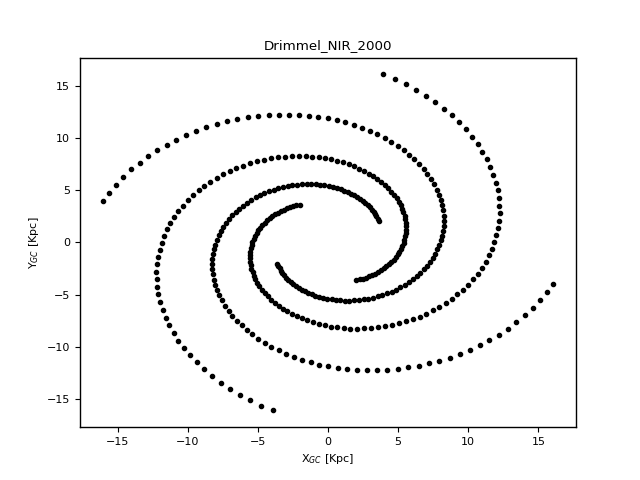
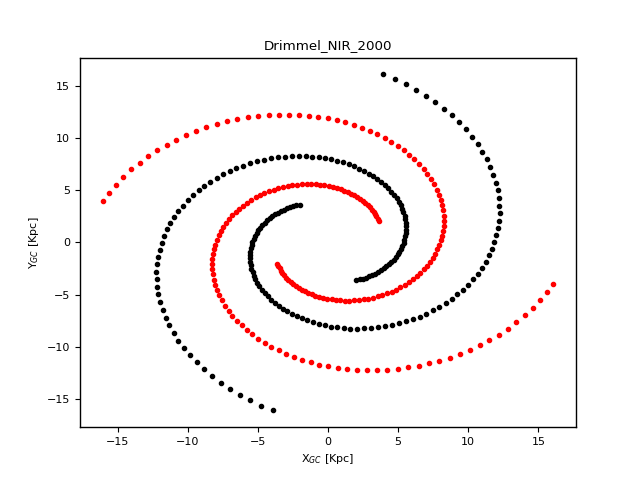
cleanup

diff --git a/SpiralMap.py b/SpiralMap.py
@@ -1250,57 +1250,62 @@ class main_(object):
 		spimod.xsun = self.xsun
 		spimod.getarmlist()		
 		self.armlist = spimod.arms	
+				
+		# in case plot attributes are not provided, or incomplete
+		for ky in self.plotattrs_default.keys():			
+			if ky not in list(plotattrs.keys()):				
+				plotattrs[ky] = self.plotattrs_default[ky]
+		plotattrs1 = plotattrs.copy()
+		
 		if 'poggio' in model.lower():		
-			spimod.output_(coordsys=plotattrs['coordsys'])		
-		else:	
-			# in case plot attributes are not provided, or incomplete
-			for ky in self.plotattrs_default.keys():			
-				if ky not in list(plotattrs.keys()):				
-					plotattrs[ky] = self.plotattrs_default[ky]
+			return spimod.output_(coordsys=plotattrs1['coordsys'])		
+		if (('poggio' not in model.lower())&('all' not in arm))  :	
+			
+
+			plotattrs1 = plotattrs.copy()				
+									
+			spimod.output_(arm)												
+			spimod.dout['rgc'] = sqrtsum(ds=[spimod.dout['xgc'],spimod.dout['ygc']])						
+			spimod.dout['phi1'] = np.arctan2(spimod.dout['yhc'],-spimod.dout['xgc'])
+			spimod.dout['phi4'] = np.degrees(np.arctan2(spimod.dout['yhc'],spimod.dout['xgc']))%360.	
+			
+			
+			self.dout = spimod.dout.copy() 													
+			if plotattrs1['armcolour'] == '':
+				plotattrs1['armcolour'] = spimod.armcolour[arm]		
+
 	
-			if 'all' not in arm:							
-				spimod.output_(arm)												
+			if plotattrs1['plot'] and plotattrs1['polarproj']==False:				
+				self.xyplot(spimod,plotattrs1)
+			if plotattrs1['plot'] and plotattrs1['polarproj']:			
+				plt.plot(np.radians(spimod.dout['phi4']),spimod.dout['rgc'],'.',color=plotattrs1['armcolour'])		
+						
+			return 
+						
+		if (('poggio' not in model.lower())&(arm=='all'))  :	
+			
+										
+			for arm_temp in spimod.arms:
+				
+				plotattrs1 = plotattrs.copy()
+
+				spimod.output_(arm_temp)
 				spimod.dout['rgc'] = sqrtsum(ds=[spimod.dout['xgc'],spimod.dout['ygc']])						
 				spimod.dout['phi1'] = np.arctan2(spimod.dout['yhc'],-spimod.dout['xgc'])
-				spimod.dout['phi4'] = np.degrees(np.arctan2(spimod.dout['yhc'],spimod.dout['xgc']))%360.	
+				spimod.dout['phi4'] = np.degrees(np.arctan2(spimod.dout['yhc'],spimod.dout['xgc']))%360.						
 				
-				
-				self.dout = spimod.dout.copy() 													
-				if plotattrs['armcolour'] == '':
-					plotattrs['armcolour'] = spimod.armcolour[arm]		
-
-		
-				if plotattrs['plot'] and plotattrs['polarproj']==False:				
-					self.xyplot(spimod,plotattrs)
-				if plotattrs['plot'] and plotattrs['polarproj']:			
-					plt.plot(np.radians(spimod.dout['phi4']),spimod.dout['rgc'],'.',color=spimod.armcolour[arm])		
-						
-						
-								
-			elif arm =='all':
-	
-				for arm_temp in spimod.arms:
-					spimod.output_(arm_temp)
-					spimod.dout['rgc'] = sqrtsum(ds=[spimod.dout['xgc'],spimod.dout['ygc']])						
-					spimod.dout['phi1'] = np.arctan2(spimod.dout['yhc'],-spimod.dout['xgc'])
-					spimod.dout['phi4'] = np.degrees(np.arctan2(spimod.dout['yhc'],spimod.dout['xgc']))%360.						
-
-					print('test...')
-					print(spimod.armcolour[arm_temp]	)
-					print(plotattrs['armcolour']	)
-					print('.....')
-
-					if plotattrs['armcolour'] == '':
-						plotattrs['armcolour'] = spimod.armcolour[arm_temp]						
-					if plotattrs['plot'] and plotattrs['polarproj']==False:						
-						self.xyplot(spimod,plotattrs)
-					if plotattrs['plot'] and plotattrs['polarproj']:			
-						# plt.plot(np.radians(spimod.dout['phi4']),spimod.dout['rgc'],'.',color=spimod.armcolour[arm_temp])								
-						plt.plot(np.radians(spimod.dout['phi4']),spimod.dout['rgc'],'.',color=plotattrs['armcolour'])								
-						
-					# if plotattrs['markSunGC']:
-						# self.add2plot(plotattrs)
+				if plotattrs1['armcolour'] == '':
+					plotattrs1['armcolour'] = spimod.armcolour[arm_temp]							
+										
+				if plotattrs1['plot'] and plotattrs1['polarproj']==False:						
+					self.xyplot(spimod,plotattrs1)
+				if plotattrs1['plot'] and plotattrs1['polarproj']:			
+					# plt.plot(np.radians(spimod.dout['phi4']),spimod.dout['rgc'],'.',color=spimod.armcolour[arm_temp])								
+					plt.plot(np.radians(spimod.dout['phi4']),spimod.dout['rgc'],'.',color=plotattrs1['armcolour'])								
 					
-			self.plotattrs = plotattrs					
-		return 
+				# if plotattrs['markSunGC']:
+					# self.add2plot(plotattrs)
+					
+				# self.plotattrs = plotattrs1					
+			return 
 
